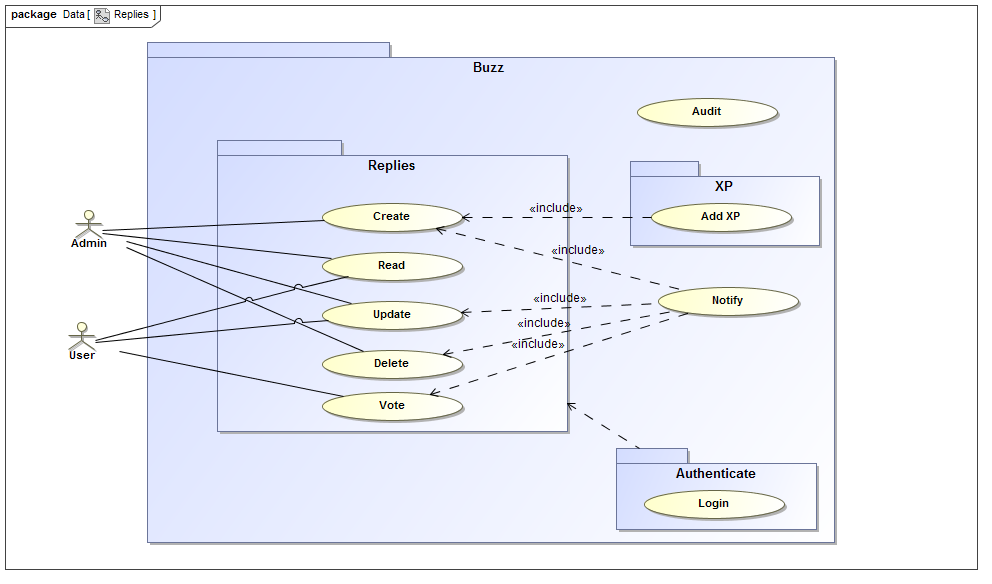
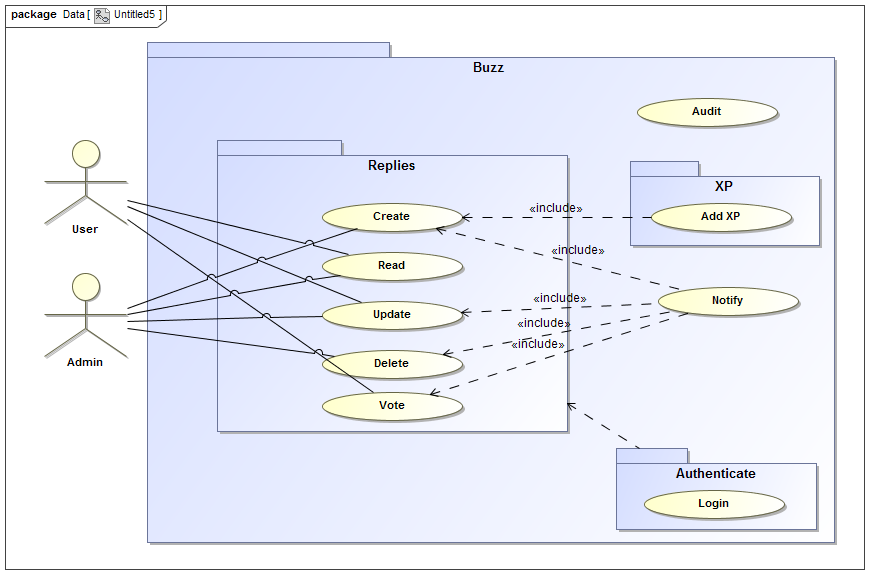
added more use cases

diff --git a/spaces.tex b/spaces.tex
@@ -11,7 +11,7 @@
 		\begin{itemize}
 			\item Administrator: Has system wide permission.
 			\item Lecturer: Has full permission for the current BuzzSpace
-			\item User: Has permission for the current BuzzSpace according to the users XP. Administrator and Lecturer are included in users as they will be assigned the required XP.   
+			\item User: Has permission for the current BuzzSpace according to the users XP. Lecturer will included in users as they will be assigned the required XP.   
 		\end{itemize}
 		
 	\end{description}
@@ -24,99 +24,102 @@
 			\item Delete BuzzSpace
 			\item Update BuzzSpace
 			\item Read BuzzSpace
+			\item Authentication
 		\end{itemize}
 		
 		\item[] Important
 		\begin{itemize}
 			\item Search BuzzSpaces
+			\item Check XP
 		\end{itemize}
 	\end{description}
 	
 	\subsection{Use cases}
 	\newpage
-	\begin{table}
-		\begin{tabularx}{\textwidth}{|>{\setlength\hsize{0.3\hsize}\setlength\linewidth{\hsize}}X|>{\setlength\hsize{0.9\hsize}\setlength\linewidth{\hsize}}X|>{\setlength\hsize{0.8\hsize}\setlength\linewidth{\hsize}}X|>{\setlength\hsize{0.8\hsize}\setlength\linewidth{\hsize}}X|>{\setlength\hsize{0.8\hsize}\setlength\linewidth{\hsize}}X|}
-			\hline
-			\multicolumn{5}{|c|}{\textbf{Use cases for Space}}\\
-			\hline
-			\paragraph{Actor} & \paragraph{Use Case} & \paragraph{Precondition} & \paragraph{Post-condition} & \paragraph{Description} \\
-			
-			\hline
-			\paragraph{User}
-			&
-			\paragraph{Create BuzzSpace}
-			&
-			\begin{itemize}
-				\item A group must exist
-				\item The actor has permission
-			\end{itemize} &
-			\begin{itemize}
-				\item Space created
-			\end{itemize} &
-			\paragraph{Create a new BuzzSpace (discussion space within group)}
-			\\
-			\hline
-			
-			\paragraph{User}
-			&
-			\paragraph{Delete BuzzSpace}
-			&
-			\begin{itemize}
-				\item The BuzzSpace exists that wants to be removed
-				\item The actor has permission
-			\end{itemize} &
-			\begin{itemize}
-				\item BuzzSpace removed from groups
-			\end{itemize} &
-			\paragraph{Remove a BuzzSpace from groups and notify the users belonging to that group}
-			\\
-			\hline
-			
-			\paragraph{User}
-			&
-			\paragraph{Update BuzzSpace}
-			&
-			\begin{itemize}
-				\item The Space exists that needs to be updated
-				\item The actor has permission
-			\end{itemize} &
-			\begin{itemize}
-				\item State of space changed
-			\end{itemize} &
-			\paragraph{Allow users with permission to update the BuzzSpace}
-			\\
-			\hline
-			
-			\paragraph{User}
-			&
-			\paragraph{Read BuzzSpace}
-			&
-			\begin{itemize}
-				\item The Space exists
-				\item The actor has permission
-			\end{itemize} &
-			\begin{itemize}
-				\item BuzzSpace marked read
-			\end{itemize} &
-			\paragraph{Allow users with permission to read the BuzzSpaces}
-			\\
-			\hline
-			
-			\paragraph{User}
-			&
-			\paragraph{Search BuzzSpaces}
-			&
-			\begin{itemize}
-				\item Must be a registered user
-			\end{itemize} &
-			\begin{itemize}
-				\item Search list created
-			\end{itemize} &
-			\paragraph{Search the BuzzSpaces in groups}
-			\\
-			\hline
-			
-			
-		\end{tabularx}
-	\end{table}
-
+	\begin{longtable}{@{}|p{1.5cm}|p{2.2cm}|p{3cm}|p{3.5cm}|p{3.5cm}|@{}}
+		\toprule
+		\multicolumn{5}{|c|}{\textbf{Use cases for Space}}\\
+		\hline
+		\textbf{Actor} & \textbf{Use Case} & \textbf{Pre-condition} & \textbf{Post-Conditions} & \textbf{Description} \\ \midrule
+		
+		User Or Admin& 
+		Create BuzzSpace& 
+		\begin{itemize}
+			\item A group must exist
+			\item The actor has permission
+			\item The actor has the required amount of XP
+		\end{itemize}& 
+		\begin{itemize}
+			\item Space created
+		\end{itemize} & 
+		Create a new BuzzSpace (discussion space within group) \\ \midrule
+		
+		User Or Admin& 
+		Delete BuzzSpace& 
+		\begin{itemize}
+			\item The BuzzSpace exists that wants to be removed
+			\item The actor has permission
+			\item The actor has the required amount of XP
+		\end{itemize}& 
+		\begin{itemize}
+			\item BuzzSpace removed from groups
+		\end{itemize} & 
+		Remove a BuzzSpace from groups and notify the users belonging to that group \\ \midrule
+		
+		User Or Admin& 
+		Update BuzzSpace& 
+		\begin{itemize}
+			\item The Space exists that needs to be updated
+			\item The actor has permission
+			\item The actor has the required amount of XP
+		\end{itemize}& 
+		\begin{itemize}
+			\item State of space changed
+		\end{itemize} & 
+		Allow users with permission to update the BuzzSpace \\ \midrule
+		
+		User Or Admin& 
+		Read BuzzSpace& 
+		\begin{itemize}
+			\item The Space exists
+			\item The actor has permission
+		\end{itemize}& 
+		\begin{itemize}
+			\item BuzzSpace marked read
+		\end{itemize} & 
+		Allow users with permission to read the BuzzSpaces \\ \midrule
+		
+		User Or Admin& 
+		Search BuzzSpaces& 
+		\begin{itemize}
+			\item Must be a registered user
+		\end{itemize}& 
+		\begin{itemize}
+			\item Search list created
+		\end{itemize} & 
+		Search the BuzzSpaces in groups \\ \midrule
+		
+		User Or Admin& 
+		Authentication& 
+		\begin{itemize}
+			\item Actor must be registered
+			\item Actor must be logged into the Buzz System 
+		\end{itemize}& 
+		\begin{itemize}
+			\item Actor grated access
+		\end{itemize} & 
+		See if the Actor is authenticated to the system \\ \midrule
+		
+		User Or Admin& 
+		Check XP& 
+		\begin{itemize}
+			\item Actor must be registered
+			\item Actor must be logged into the Buzz System 
+			\item Actor has the required amount of XP
+		\end{itemize}& 
+		\begin{itemize}
+			\item Actor allowed to make changes
+		\end{itemize} & 
+		See if the Actor has the required amount of XP to be allowed to make changes to the BuzzSpace \\ \bottomrule
+		
+	\end{longtable}

diff --git a/document.tex b/document.tex
@@ -4,13 +4,15 @@
 
 
 \usepackage[textwidth = 200mm,margin = 15mm]{geometry}
-
+\usepackage{hyperref}
 \usepackage{tabularx}
+\usepackage{booktabs}
+\usepackage{longtable}
 \setcounter{secnumdepth}{3}
 
 
 \title{COS301: Application and Functional Requirements}
-\date{2015-02-19}
+\date{2015-02-27}
 \author{Group 3B}
 
 
@@ -21,6 +23,7 @@
 
 \newpage
 \pagenumbering{roman}
+
 \tableofcontents 
 
 \newpage
@@ -29,7 +32,11 @@
 
 \chapter{Introduction}
 
+Github URL: \url{https://github.com/u12026442/group3b_men_at_work.git}
+\\
+\\
 This document contains the architecture and functional requirements for the Buzz Discussion Board system. It will start with a brief  vision and background to explain the need for such a system from where the architecture and functional requirements will follow.
+
 
 \chapter{Vision}
 
@@ -47,13 +54,6 @@ and the typical usage scenarios for the outputs of the project."}
 \item \textit ...
 \end{itemize}
 
-\chapter{Architecture requirements}
-
-	\section{Access channel requirements}
-	\section{Quality requirements}
-	\section{Integration requirements}
-	\section{Architecture constraints}
-
 \chapter{ Functional requirements and application design}
 	\section{Use case prioritization}
 		\subsection{Critical}
@@ -70,9 +70,11 @@ and the typical usage scenarios for the outputs of the project."}
 \newpage
 \include{replies}
 \newpage
-\include{users}
+\include{user}
 \newpage
 \include{userlists}
+\newpage
+\include{userinterface}
 \newpage
 \include{authenticate}
 \newpage
@@ -83,10 +85,10 @@ and the typical usage scenarios for the outputs of the project."}
 \include{XP}
 \newpage
 
-\subsection{Required functionality}
-\subsection{Process specifications}
-\subsection{Domain Model}
-\subsection{Open Issues}
+\section{Required functionality}
+\section{Process specifications}
+\section{Domain Model}
+\section{Open Issues}
 
 
 
